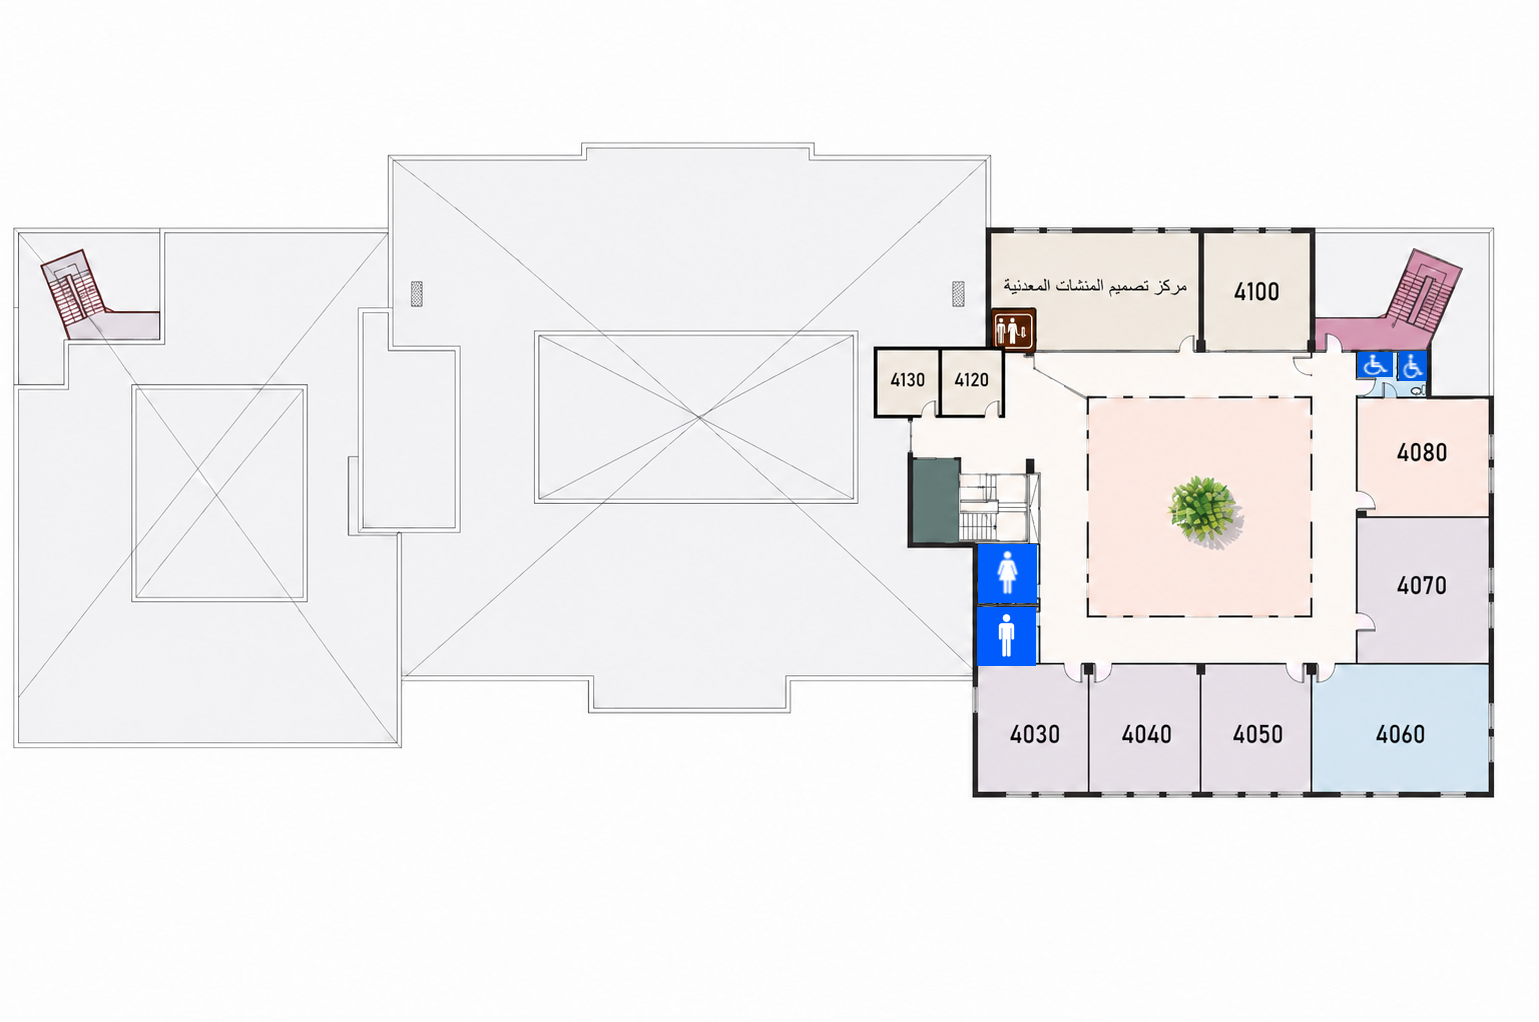
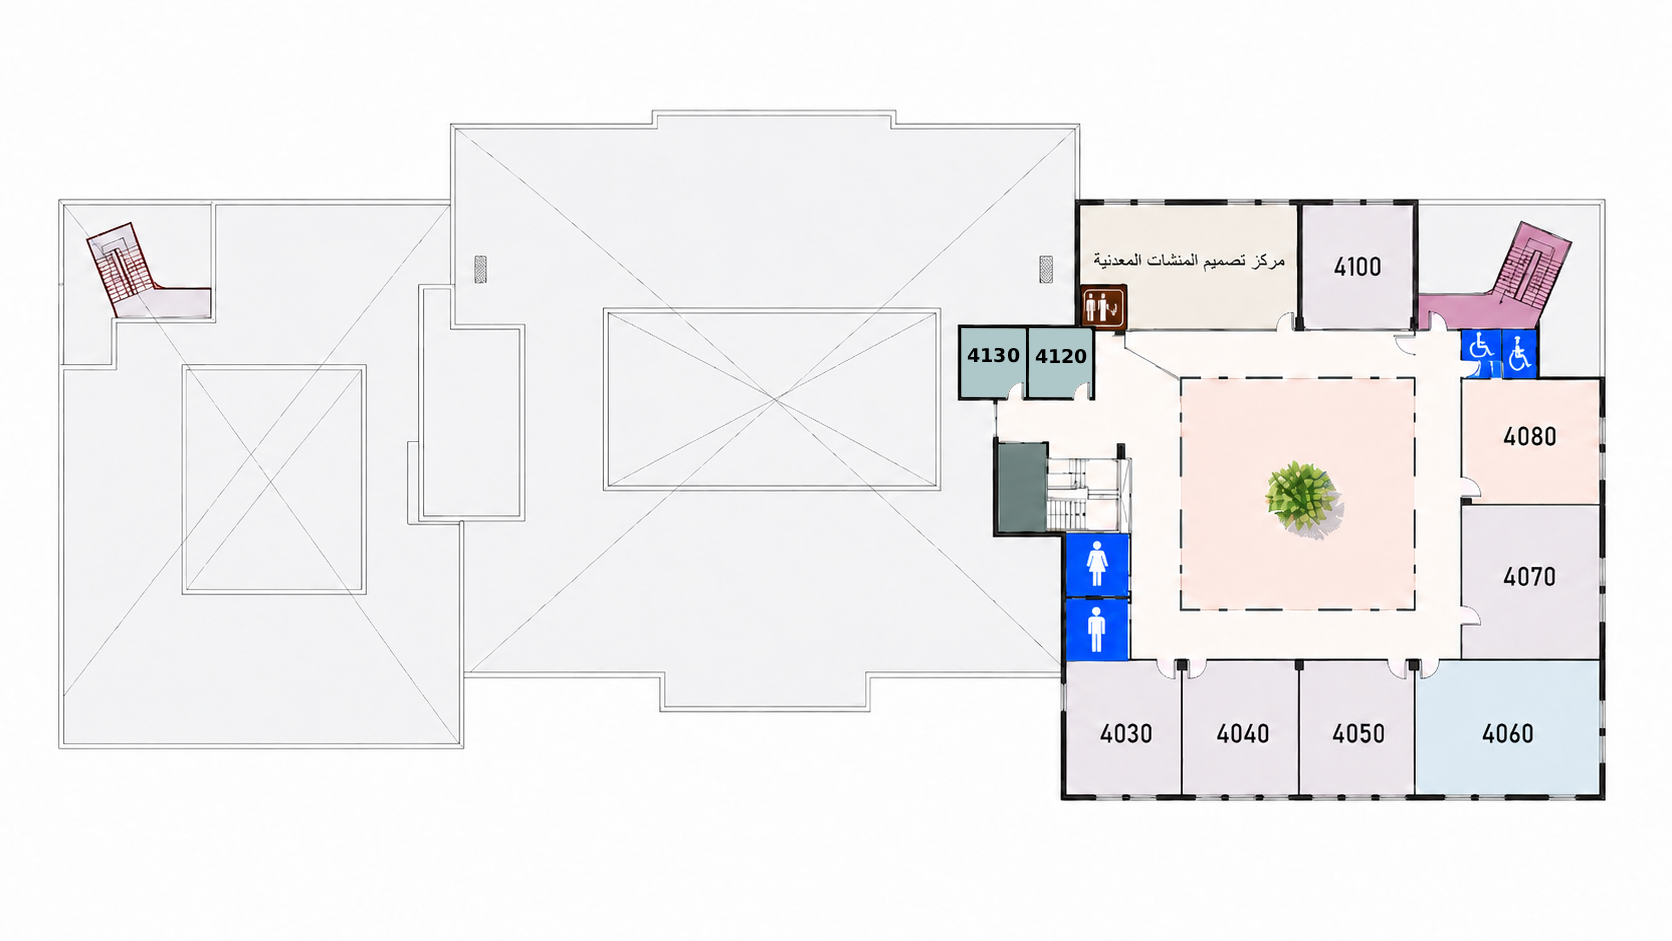
Add floor 2 map and coordinate picker updates

diff --git a/web/src/pages/MapPage.jsx b/web/src/pages/MapPage.jsx
@@ -2909,7 +2909,54 @@ G: {
     },
   ],
 },
-
+2: {
+  label: '2',
+  title: 'Second Floor — الطابق الثاني',
+  image: '/maps/2.png',
+  width: 1533,
+  height: 1026,
+  blocks: [
+          {id: '2010',
+      roomNumber: '2010',
+      name: 'دائرة الهندسة المدنية والمعمارية',
+      type: 'office',
+      x: 100,
+      y: 100,
+      width: 120,
+      height: 60,
+    },
+    {
+      id: '2020',
+      roomNumber: '2020',
+      name: 'مرسم سنة رابعة معماري',
+      type: 'engineering_drawing_studio',
+      department: 'الهندسة المعمارية',
+      capacity: 45,
+      status: 'Available',
+      lecturerName: '—',
+      lecturerEmail: '—',
+      currentCourse: '—',
+      lectureTime: '—',
+      shape: 'rect',
+      x: 402,
+      y: 576,
+      width: 113,
+      height: 159,
+      labelX: 459,
+      labelY: 656,
+    },
+    {
+      id: '2030',
+      roomNumber: '2030',
+      name: 'مكتب د. معتصم بعباع',
+      type: 'office',
+      x: 380,
+      y: 100,
+      width: 120,
+      height: 60,
+    },
+  ]
+},
 3: {
   label: '3',
   title: 'Third Floor — الطابق الثالث',
@@ -3744,7 +3791,7 @@ G: {
 },
 };
 
-const FLOOR_ORDER = ['B2', 'B1', 'G', '1', '3', '4'];
+const FLOOR_ORDER = ['B2', 'B1', 'G', '1','2', '3', '4'];
 
 function getTypeLabel(type) {
   const map = {
@@ -3812,9 +3859,47 @@ export default function MapPage() {
   const [routeInstructions, setRouteInstructions] = useState([]);
   const [routeTarget, setRouteTarget] = useState(null);
   const [routeError, setRouteError] = useState('');
-  
+  //=======================================
 const currentFloor = FLOOR_MAPS[activeFloor];
+const [firstPoint, setFirstPoint] = useState(null);
 
+function handleCoordinatePick(e) {
+  const svg = e.currentTarget.ownerSVGElement;
+  const point = svg.createSVGPoint();
+
+  point.x = e.clientX;
+  point.y = e.clientY;
+
+  const svgPoint = point.matrixTransform(svg.getScreenCTM().inverse());
+
+  const x = Math.round(svgPoint.x);
+  const y = Math.round(svgPoint.y);
+
+  if (!firstPoint) {
+    setFirstPoint({ x, y });
+    console.log("First point:", { x, y });
+    return;
+  }
+
+  const block = {
+    id: "ROOM_NUMBER_HERE",
+    roomNumber: "ROOM_NUMBER_HERE",
+    name: "ROOM_NAME_HERE",
+    type: "lecture_hall",
+    shape: "rect",
+    x: Math.min(firstPoint.x, x),
+    y: Math.min(firstPoint.y, y),
+    width: Math.abs(x - firstPoint.x),
+    height: Math.abs(y - firstPoint.y),
+    labelX: Math.round((firstPoint.x + x) / 2),
+    labelY: Math.round((firstPoint.y + y) / 2),
+  };
+
+  console.log("COPY THIS BLOCK:");
+  console.log(JSON.stringify(block, null, 2));
+
+  setFirstPoint(null);
+} //=========================================
   const visibleBlocks = useMemo(() => {
     return currentFloor.blocks.filter(block => matchesNeed(block, selectedNeed));
   }, [currentFloor, selectedNeed]);
@@ -4152,6 +4237,17 @@ onClick={() => {
                   transition={{ duration: 0.8, ease: 'easeInOut' }}
                      />
                        )}
+                       <rect
+                        x="0"
+                        y="0"
+                       width={currentFloor.width}
+                       height={currentFloor.height}
+                       fill="transparent"
+                       onClick={handleCoordinatePick}
+                      />
+
+                       
+
               {currentFloor.blocks.map(block => {
                 const hiddenByFilter = !matchesNeed(block, selectedNeed);
                 const isActive =